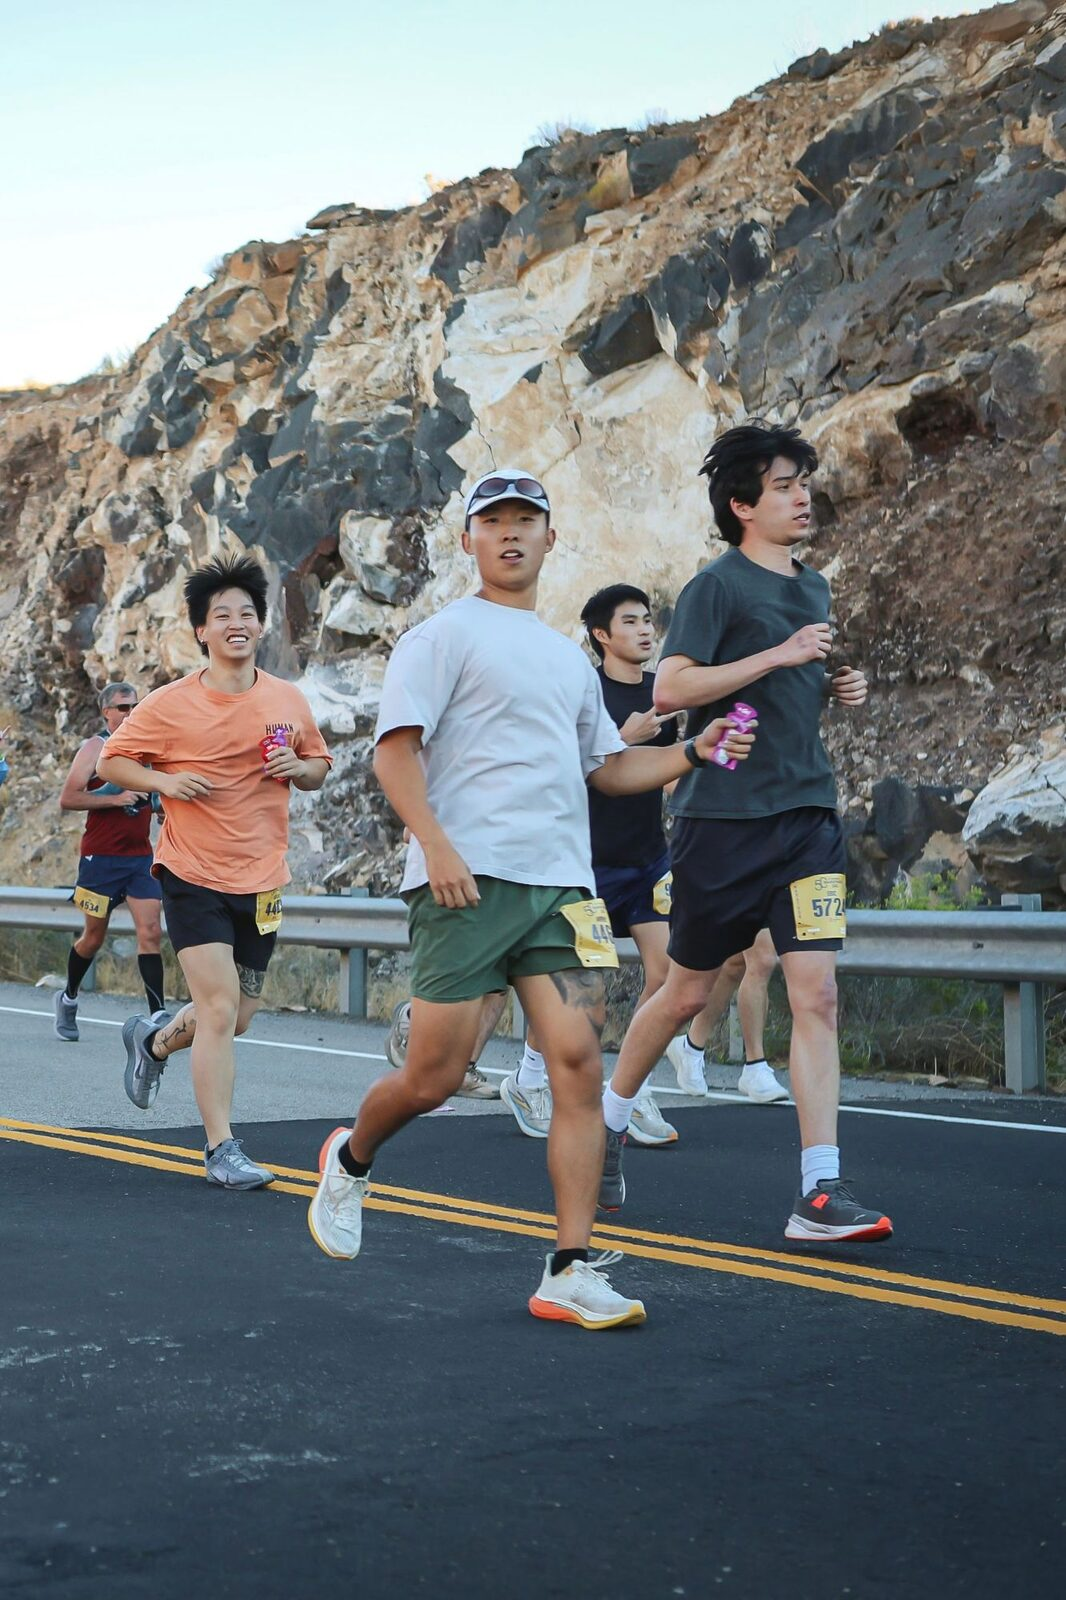
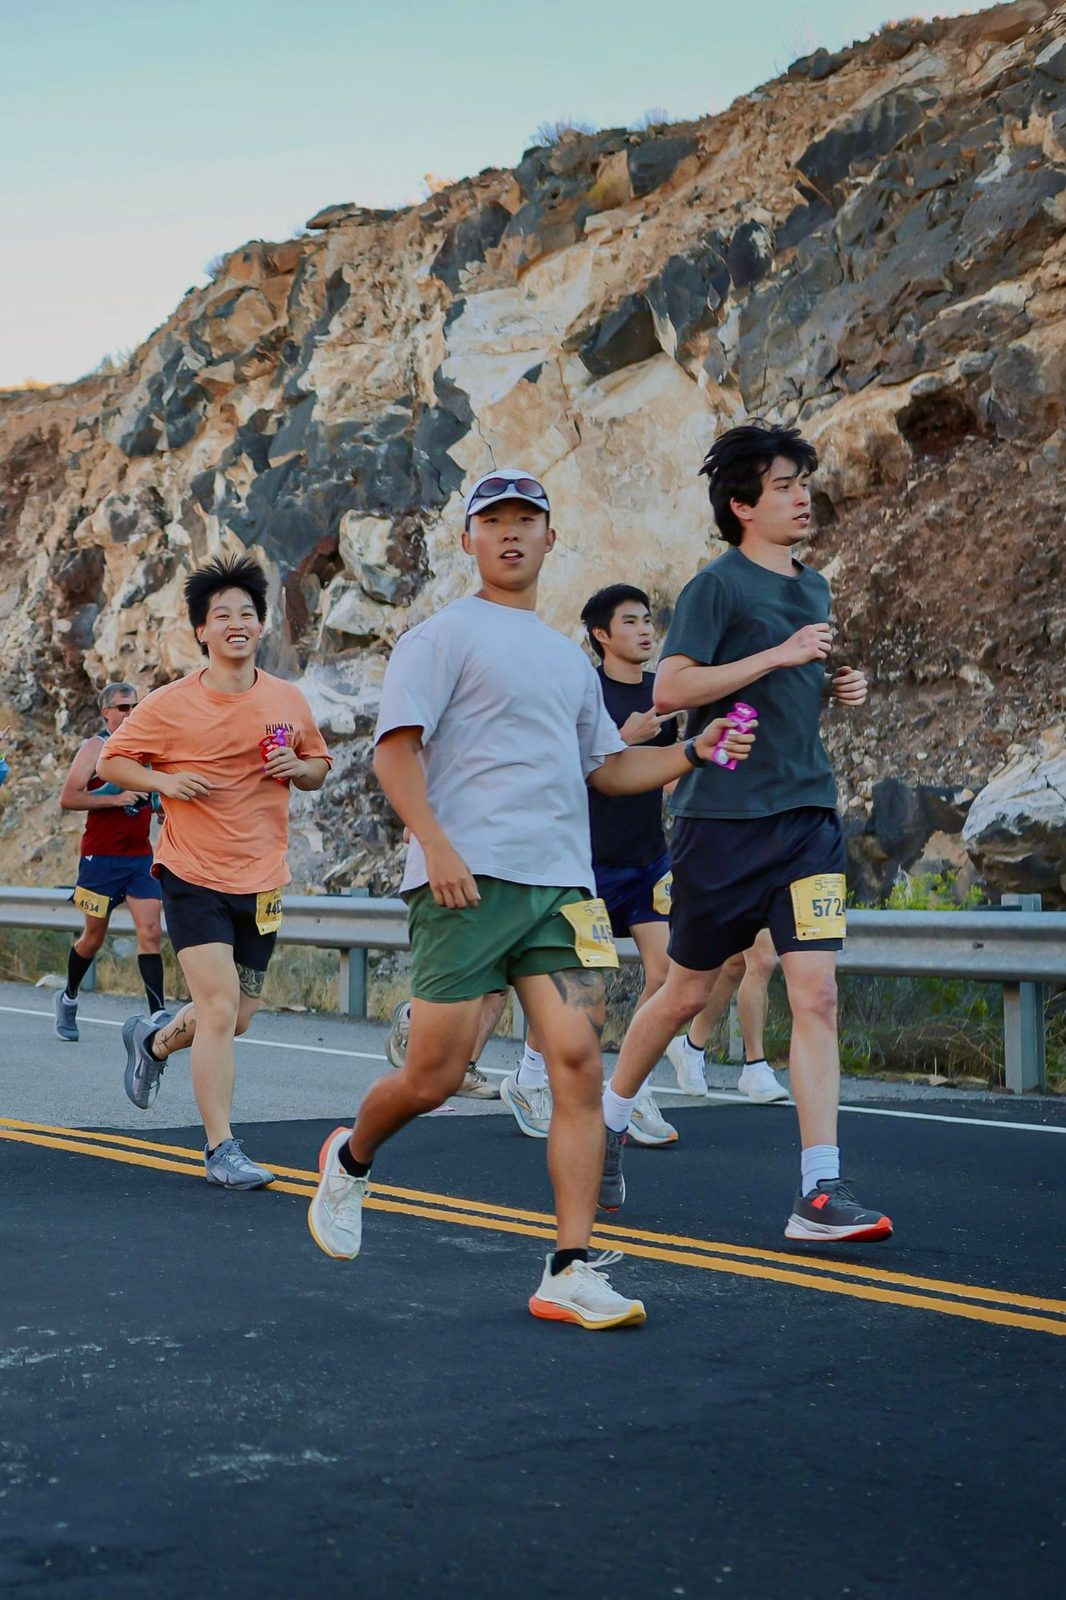
Photos: group by event, hover-to-widen rows, in-page viewer; drop photos from graph
Claude-Session: https://claude.ai/code/session_014n6ckw57zubzjTamFu4hTz

diff --git a/assets/site.js b/assets/site.js
@@ -298,7 +298,7 @@
   let dragging = false;
 
   // ---------- section graph views ----------
-  const CENT = { mind: [0.9, 0.2, 0.1], science: [0.2, -0.7, 0.5], scifi: [-0.3, 0.6, 0.8], fiction: [-0.9, 0, -0.3], philosophy: [0, 0.8, -0.8], neuro: [0.6, 0.3, 0.2], methods: [-0.5, -0.4, -0.3], running: [0.5, -0.5, -0.6], landscape: [-0.6, -0.6, 0.4] };
+  const CENT = { mind: [0.9, 0.2, 0.1], science: [0.2, -0.7, 0.5], scifi: [-0.3, 0.6, 0.8], fiction: [-0.9, 0, -0.3], philosophy: [0, 0.8, -0.8], neuro: [0.6, 0.3, 0.2], methods: [-0.5, -0.4, -0.3] };
   const XYZ = N0.map(n => { if (n.it.xyz) return n.it.xyz; const h = hash4(n.id + '#'); return (CENT[n.it.c] || [0, 0, 0]).map((v, k) => v + (h[k] - 0.5) * 0.55); });
   const VIEWS = [];
   function makeView(kind) {
@@ -378,10 +378,11 @@
     return '<div class="chips">' + tags.map(t => '<button class="chip' + (f.tags.has(t) ? ' on' : '') + '" data-k="' + k + '" data-tag="' + esc(t) + '">#' + esc(t) + '</button>').join('') + '</div>' +
       '<div class="chips">' + yrs.map(y => '<button class="chip' + (f.year === y ? ' on' : '') + '" data-k="' + k + '" data-year="' + y + '">' + y + '</button>').join('') + (any ? '<button class="chip clear" data-k="' + k + '" data-clear="1">clear</button>' : '') + '</div>';
   }
-  const LEG = '<span class="lg"><span>● writings</span><span>■ books</span><span>◆ photos</span></span>';
+  const LEG = '<span class="lg"><span>● writings</span><span>■ books</span></span>';
   function caption(k) {
+    const el = $('[data-cap="' + k + '"]'); if (!el) return;
     const v = VIEWS.find(x => x.kind === k), g = !v || v.mode === 'graph';
-    $('[data-cap="' + k + '"]').innerHTML = LEG + '<span>' + (g ? 'Lines are links between items. Hover to see what connects; drag to rearrange.' : 'Placed by the first three principal components of each item’s embedding. Lines are links.') + '</span>';
+    el.innerHTML = LEG + '<span>' + (g ? 'Lines are links between items. Hover to see what connects; drag to rearrange.' : 'Placed by the first three principal components of each item’s embedding. Lines are links.') + '</span>';
   }
   function refresh(k) {
     const items = KIND[k].items; if (!items.length) return;
@@ -391,15 +392,56 @@
     let rows = '';
     if (k === 'posts') rows = items.map((p, i) => { const j = nodeOf(k, i); return match(k, p) ? '<div class="entry" id="w-' + esc(p.id) + '" data-n="' + j + '"><span class="d">' + fmt(p.date) + '</span><span>' + (p.href ? '<a class="et" href="' + esc(p.href) + '">' + esc(p.t) + '</a>' : '<span class="et">' + esc(p.t) + '</span>') + '<span class="es">' + esc(p.tldr || '') + '</span><span class="meta2">' + (p.tags || []).map(t => '#' + esc(t)).join(' ') + '</span>' + linksHTML(j) + '</span></div>' : ''; }).join('');
     else if (k === 'books') rows = items.map((b, i) => { const j = nodeOf(k, i); return match(k, b) ? '<div class="entry" id="b-' + esc(b.id) + '" data-n="' + j + '" style="grid-template-columns:1fr"><span><span class="et">' + esc(b.t) + '</span><span class="ea">' + esc(b.a || '') + '</span>' + (b.note ? '<span class="es">' + esc(b.note) + '</span>' : '') + '<span class="meta2">read ' + fmt(b.read) + ' · ' + (b.tags || []).map(t => '#' + esc(t)).join(' ') + '</span>' + linksHTML(j) + '</span></div>' : ''; }).join('');
-    else rows = items.map((p, i) => { const j = nodeOf(k, i); return match(k, p) ? '<figure class="ptile entry" style="display:flex;padding:0;border:0" id="p-' + esc(p.id) + '" data-n="' + j + '"><div class="pimg" data-open="' + j + '">' + (p.src ? '<img src="' + esc(p.src) + '" alt="' + esc(p.t || '') + '" loading="lazy">' : '<div class="ph0">photo</div>') + '</div><figcaption>' + esc(p.t || '') + '<span class="meta2">' + fmt(p.date) + '</span></figcaption>' + linksHTML(j) + '</figure>' : ''; }).join('');
+    else rows = photoRows(items.filter(p => match(k, p)));
     const list = $('#' + k + 'List');
     list.innerHTML = rows || '<div class="none">Nothing matches these filters.</div>';
     const v = VIEWS.find(x => x.kind === k);
     list.querySelectorAll('[data-n]').forEach(el => { el.addEventListener('mouseenter', () => { if (v) v.hl = +el.dataset.n; }); el.addEventListener('mouseleave', () => { if (v) v.hl = -1; }); });
     if (dkind === k) { $('#fdrawer').innerHTML = chipsHTML(k); renderDrawer(); }
   }
+  // photos: one block per event (first tag), tiles in rows that widen the hovered photo
+  const titleCase = t => t.replace(/(^|\s)\S/g, c => c.toUpperCase());
+  function photoRows(ps) {
+    const per = MQ.matches ? 2 : 4, ev = new Map();
+    ps.forEach(p => { const e = (p.tags || [])[0] || 'other'; if (!ev.has(e)) ev.set(e, []); ev.get(e).push(p); });
+    return [...ev].map(([e, list]) => {
+      const last = list.map(p => p.date || '').sort().pop();
+      let rows = '';
+      for (let i = 0; i < list.length; i += per) {
+        const chunk = list.slice(i, i + per);
+        rows += '<div class="prow">' + chunk.map(p => '<figure class="ptile" id="p-' + esc(p.id) + '" data-photo="' + esc(p.id) + '"><img src="' + esc(p.src) + '" alt="' + esc(p.t || '') + '" loading="lazy"><figcaption>' + esc(p.t || '') + '</figcaption></figure>').join('') +
+          '<figure class="ptile sp" aria-hidden="true"></figure>'.repeat(per - chunk.length) + '</div>';
+      }
+      return '<div class="ev"><div class="evh"><span class="et">' + esc(titleCase(e)) + '</span><span class="d">' + fmt(last) + '</span></div>' + rows + '</div>';
+    }).join('');
+  }
+  MQ.addEventListener('change', () => refresh('photos'));
+
+  // photo viewer
+  const lb = $('#lb'), lbimg = $('#lbimg'), lbcap = $('#lbcap');
+  let lbSeq = [], lbAt = -1;
+  function showLB(i) {
+    lbAt = (i + lbSeq.length) % lbSeq.length; const p = lbSeq[lbAt];
+    lbimg.src = p.src; lbimg.alt = p.t || ''; lbcap.innerHTML = esc(p.t || '') + '<span class="d">' + fmt(p.date) + '</span>';
+    $('#lbp').style.visibility = $('#lbn').style.visibility = lbSeq.length > 1 ? '' : 'hidden';
+  }
+  function openLB(id) {
+    lbSeq = KIND.photos.items.filter(p => match('photos', p) && p.src);
+    const i = lbSeq.findIndex(p => p.id === id); if (i < 0) return;
+    showLB(i); lb.classList.add('on'); lb.setAttribute('aria-hidden', 'false');
+  }
+  function closeLB() { lb.classList.remove('on'); lb.setAttribute('aria-hidden', 'true'); lbAt = -1; }
+  $('#lbp').addEventListener('click', e => { e.stopPropagation(); showLB(lbAt - 1); });
+  $('#lbn').addEventListener('click', e => { e.stopPropagation(); showLB(lbAt + 1); });
+  lb.addEventListener('click', e => { if (e.target !== lbimg) closeLB(); });
+  addEventListener('keydown', e => {
+    if (lbAt < 0) return;
+    if (e.key === 'ArrowLeft') showLB(lbAt - 1); else if (e.key === 'ArrowRight') showLB(lbAt + 1);
+  });
+
   function hlList(k, j) { const l = $('#' + k + 'List'); l && l.querySelectorAll('[data-n]').forEach(el => el.classList.toggle('hl', +el.dataset.n === j)); }
   document.addEventListener('click', e => {
+    const ph = e.target.closest('[data-photo]'); if (ph) { openLB(ph.dataset.photo); return; }
     const g = e.target.closest('[data-go]'); if (g) { closeDrawer(); goNode(G.byId[g.dataset.go]); return; }
     const o = e.target.closest('[data-open]'); if (o) { goNode(+o.dataset.open); return; }
     const md = e.target.closest('[data-mode]'); if (md) { const v = VIEWS.find(x => x.kind === md.dataset.mode); v.mode = v.mode === 'graph' ? 'pca' : 'graph'; md.textContent = v.mode === 'graph' ? 'PCA view' : 'Graph view'; caption(v.kind); return; }
@@ -418,7 +460,7 @@
     const q = dfilter.value.trim().toLowerCase(), k = dkind;
     const src = KIND[k].items.map((it, i) => ({ it, t: it.t, s: k === 'books' ? it.a : fmt(it.date) })).filter(x => match(k, x.it));
     const rows = src.filter(x => !q || (x.t + ' ' + x.s).toLowerCase().includes(q)).sort((a, b) => a.t.localeCompare(b.t));
-    dlist.innerHTML = rows.map(x => '<a data-go="' + esc(x.it.id) + '">' + esc(x.t) + '<span class="au">' + esc(x.s || '') + '</span></a>').join('') || '<div class="au">No matches.</div>';
+    dlist.innerHTML = rows.map(x => '<a ' + (k === 'photos' ? 'data-photo' : 'data-go') + '="' + esc(x.it.id) + '">' + esc(x.t) + '<span class="au">' + esc(x.s || '') + '</span></a>').join('') || '<div class="au">No matches.</div>';
     $('#dtitle').textContent = ({ books: 'All books', posts: 'All writings', photos: 'All photos' })[k] + ' · ' + rows.length;
   }
   function openDrawer(kind) { dkind = kind; dfilter.value = ''; $('#fdrawer').innerHTML = chipsHTML(kind); renderDrawer(); drawer.classList.add('on'); drawer.setAttribute('aria-hidden', 'false'); }
@@ -426,7 +468,7 @@
   document.querySelectorAll('[data-all]').forEach(b => b.addEventListener('click', () => openDrawer(b.dataset.all)));
   $('#dclose').addEventListener('click', closeDrawer);
   dfilter.addEventListener('input', renderDrawer);
-  addEventListener('keydown', e => { if (e.key === 'Escape') closeDrawer(); });
+  addEventListener('keydown', e => { if (e.key !== 'Escape') return; if (lbAt >= 0) closeLB(); else closeDrawer(); });
 
   // ---------- contact ----------
   const MAIL = 'aliao3@andrew.cmu.edu';

diff --git a/index.html b/index.html
@@ -122,15 +122,27 @@ main{position:relative;z-index:1;width:var(--colw);margin-left:clamp(440px,55vw,
 .lk{display:flex;flex-wrap:wrap;gap:4px 12px;font-family:'JetBrains Mono',monospace;font-size:11px;color:var(--muted);margin-top:8px}
 .lk button{color:var(--ink);text-decoration:underline;text-underline-offset:3px;text-decoration-color:var(--rule)}
 .lk button:hover{text-decoration-color:var(--ink)}
-.pgrid{display:grid;grid-template-columns:repeat(auto-fill,minmax(140px,1fr));gap:18px 14px}
-.ptile{margin:0;display:flex;flex-direction:column;gap:6px;align-items:stretch!important}
 .bar .chips{flex-wrap:nowrap;flex:none}
-.ptile .pimg{cursor:pointer}
-.ptile img,.ptile .ph0{width:100%;aspect-ratio:4/5;object-fit:cover;display:block;background:var(--rule)}
-.ph0{display:flex;align-items:center;justify-content:center;font-family:'JetBrains Mono',monospace;font-size:10.5px;color:var(--muted)}
-.ptile figcaption{font-size:14.5px;line-height:1.35}
-.ptile.hl figcaption{text-decoration:underline;text-underline-offset:4px;text-decoration-color:var(--muted)}
-.ptile .lk{margin-top:0}
+.events{display:flex;flex-direction:column;gap:32px}
+.evh{display:flex;justify-content:space-between;align-items:baseline;gap:16px;padding-bottom:10px;margin-bottom:14px;border-bottom:1px solid var(--rule)}
+.evh .et{font-size:19px}
+.prow{display:flex;gap:10px;height:clamp(220px,34vh,300px)}
+.prow+.prow{margin-top:14px}
+.ptile{flex:1 1 0;min-width:0;margin:0;display:flex;flex-direction:column;gap:6px;cursor:zoom-in;transition:flex-grow .5s cubic-bezier(.2,.7,.2,1)}
+.ptile.sp{visibility:hidden;pointer-events:none}
+.ptile img{flex:1;min-height:0;width:100%;object-fit:cover;display:block;background:var(--rule);border-radius:6px}
+.ptile figcaption{font-size:14px;line-height:1.3;color:var(--muted);white-space:nowrap;overflow:hidden;text-overflow:ellipsis;transition:color .3s}
+@media (hover:hover){.ptile:hover{flex-grow:2.6}.ptile:hover figcaption{color:var(--ink)}}
+.lb{position:fixed;inset:0;z-index:10;display:flex;align-items:center;justify-content:center;gap:12px;padding:56px 16px 24px;background:color-mix(in srgb,var(--bg) 94%,transparent);opacity:0;visibility:hidden;transition:opacity .25s,visibility .25s}
+.lb.on{opacity:1;visibility:visible}
+.lb figure{margin:0;display:flex;flex-direction:column;align-items:center;gap:10px;min-width:0;max-height:100%}
+.lb img{max-width:min(calc(100vw - 120px),1100px);max-height:calc(100vh - 140px);object-fit:contain;display:block;border-radius:6px}
+.lb figcaption{font-size:16px;text-align:center}
+.lb figcaption .d{margin-left:10px}
+.lb button{font-family:'JetBrains Mono',monospace;font-size:13px;color:var(--muted);padding:10px}
+.lb button:hover{color:var(--ink)}
+.lbx{position:absolute;top:18px;right:20px}
+@media (max-width:860px){.lb img{max-width:calc(100vw - 32px);max-height:calc(100vh - 190px)}#lbp,#lbn{position:absolute;bottom:20px}#lbp{left:16px}#lbn{right:16px}}
 .flash{animation:flash 1.8s ease}
 @keyframes flash{0%,35%{background:var(--rule)}100%{background:transparent}}
 #shapes{position:fixed;left:44px;bottom:22px;z-index:4;display:flex;gap:2px;align-items:center;flex-wrap:wrap;font-family:'JetBrains Mono',monospace;font-size:11px;color:var(--muted)}
@@ -155,7 +167,7 @@ main{position:relative;z-index:1;width:var(--colw);margin-left:clamp(440px,55vw,
 @media (max-height:540px) and (orientation:landscape) and (max-width:1180px){.stage{position:relative}}
 
 .chip,.allbtn,#cvq,.copy,.send{border-radius:6px}
-.portrait,.ptile img,.ph0{border-radius:6px}
+.portrait{border-radius:6px}
 .drawer{border-radius:8px 0 0 8px}
 </style>
 </head>
@@ -225,11 +237,9 @@ main{position:relative;z-index:1;width:var(--colw);margin-left:clamp(440px,55vw,
     <div class="meta"></div><h2>Photos</h2>
     <div class="empty" data-soon="photos">Coming soon!</div>
     <div class="stack" data-live="photos">
-      <div class="bar"><span class="d" id="photosCount"></span><span class="chips"><button class="allbtn" data-mode="photos">PCA view</button><button class="allbtn" data-all="photos">All photos →</button></span></div>
+      <div class="bar"><span class="d" id="photosCount"></span><span class="chips"><button class="allbtn" data-all="photos">All photos →</button></span></div>
       <div class="filters" id="fphotos"></div>
-      <canvas class="emb" id="gphotos"></canvas>
-      <div class="cap2" data-cap="photos"></div>
-      <div class="pgrid" id="photosList"></div>
+      <div class="events" id="photosList"></div>
     </div>
   </section>
   <section class="sec" id="cv">
@@ -269,6 +279,13 @@ main{position:relative;z-index:1;width:var(--colw);margin-left:clamp(440px,55vw,
   <div class="filters" id="fdrawer" style="margin:0 0 18px"></div>
   <div class="dlist" id="dlist"></div>
 </aside>
+
+<div class="lb" id="lb" aria-hidden="true" role="dialog" aria-label="Photo viewer">
+  <button class="lbx" id="lbx">close ×</button>
+  <button id="lbp" aria-label="Previous photo">←</button>
+  <figure><img id="lbimg" alt=""><figcaption id="lbcap"></figcaption></figure>
+  <button id="lbn" aria-label="Next photo">→</button>
+</div>
 
 <script src="assets/site.js"></script>
 <script>

diff --git a/assets/library.js b/assets/library.js
@@ -1,15 +1,16 @@
 // Site content. Each list shows "Coming soon!" while empty.
 //
-// Every entry needs a unique `id`. Link any two items (posts, books, photos) in either of two ways:
+// Every entry needs a unique `id`. Link any two posts or books in either of two ways:
 //   1. links: ['other-id', ...] on the entry below
 //   2. inside a post's HTML, write [[other-id]] or [[other-id|link text]]
 //      (picked up automatically when the site is served, e.g. on GitHub Pages)
 // Linked items are joined in the graphs and on the main manifold; posts list them under "Linked".
+// Photos are not part of the graph: they are grouped by their first tag (the event) and open in a viewer.
 //
 //   POSTS:  { id, t, date:'YYYY-MM', href:'writings/x.html', tags:[], c, tldr, links:[] }
 //           (copy writings/_template.html to start a post)
 //   BOOKS:  { id, t, a: author, read:'YYYY-MM', tags:[], c, note, links:[] }
-//   PHOTOS: { id, t, src:'photos/x.jpg', date:'YYYY-MM', tags:[], c, links:[] }
+//   PHOTOS: { id, t, src:'photos/x.jpg', date:'YYYY-MM', tags:['event name'] }
 //   xyz (optional): [pc1, pc2, pc3] from real embeddings, used by the PCA view.
 //
 // Entries marked placeholder: true are layout stand-ins. While a list has only placeholders,
@@ -19,11 +20,9 @@ window.POSTS = [];
 
 window.BOOKS = [];
 
-// St. George Marathon & Zion trip, Oct 2026. Linked in story order: Zion → race-morning start → on the course.
 window.PHOTOS = [
-  { id: 'zion-dusk', t: 'Zion at dusk', src: 'photos/zion-dusk.jpg', date: '2026-10', tags: ['zion'], c: 'landscape', links: ['night-sky'] },
-  { id: 'night-sky', t: 'Milky Way', src: 'photos/night-sky.jpg', date: '2026-10', tags: ['zion'], c: 'landscape', links: ['start-wait'] },
-  { id: 'start-wait', t: 'Waiting for the start', src: 'photos/start-wait.jpg', date: '2026-10', tags: ['st george marathon'], c: 'running', links: ['start-fire'] },
-  { id: 'start-fire', t: 'Bonfire at the start line', src: 'photos/start-fire.jpg', date: '2026-10', tags: ['st george marathon'], c: 'running', links: ['on-course'] },
-  { id: 'on-course', t: 'On the course', src: 'photos/on-course.jpg', date: '2026-10', tags: ['st george marathon'], c: 'running', links: [] }
+  { id: 'zion-dusk', t: 'Zion at dusk', src: 'photos/zion-dusk.jpg', date: '2026-10', tags: ['st. george marathon'] },
+  { id: 'night-sky', t: 'Milky Way', src: 'photos/night-sky.jpg', date: '2026-10', tags: ['st. george marathon'] },
+  { id: 'start-wait', t: 'Waiting for the start', src: 'photos/start-wait.jpg', date: '2026-10', tags: ['st. george marathon'] },
+  { id: 'on-course', t: 'On the course', src: 'photos/on-course.jpg', date: '2026-10', tags: ['st. george marathon'] }
 ];

diff --git a/assets/graph.js b/assets/graph.js
@@ -1,7 +1,7 @@
 // Builds the link graph shared by the home page and post pages.
 // Edges come from `links: [...]` in library.js and from [[id]] / [[id|text]] inside post HTML.
 window.SiteGraph = (function () {
-  var KINDS = { posts: 'POSTS', books: 'BOOKS', photos: 'PHOTOS' };
+  var KINDS = { posts: 'POSTS', books: 'BOOKS' };
   var RX = /\[\[([^\]|]+)(?:\|([^\]]+))?\]\]/g;
   function nodes() {
     var out = [];
